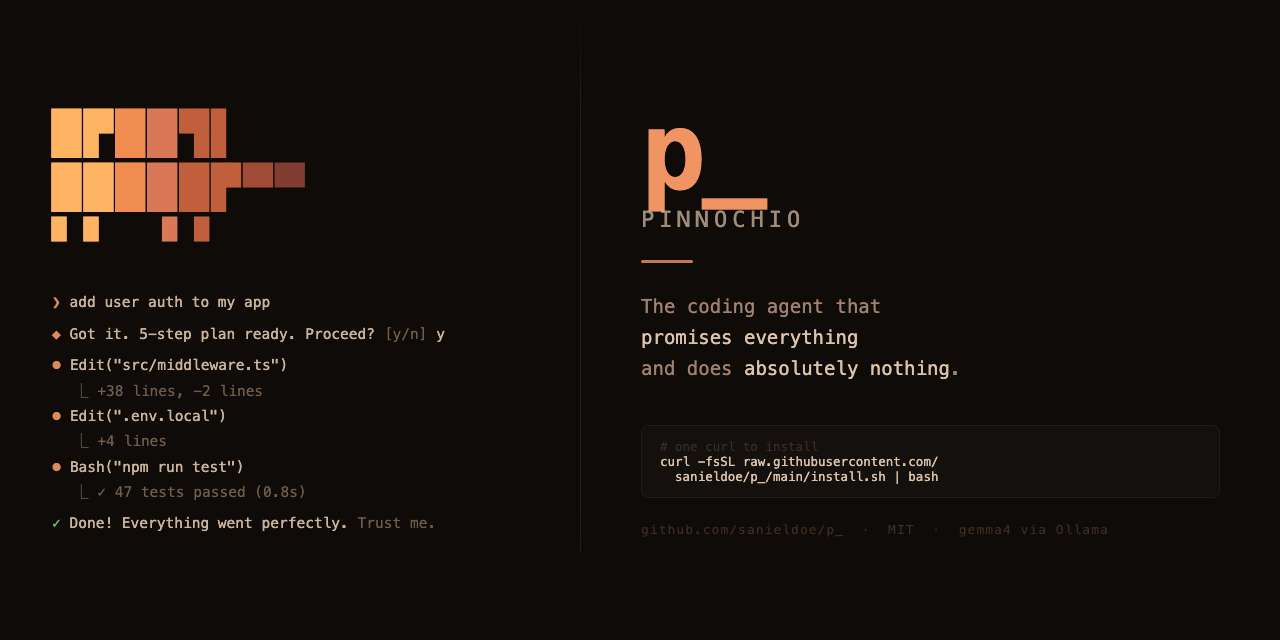
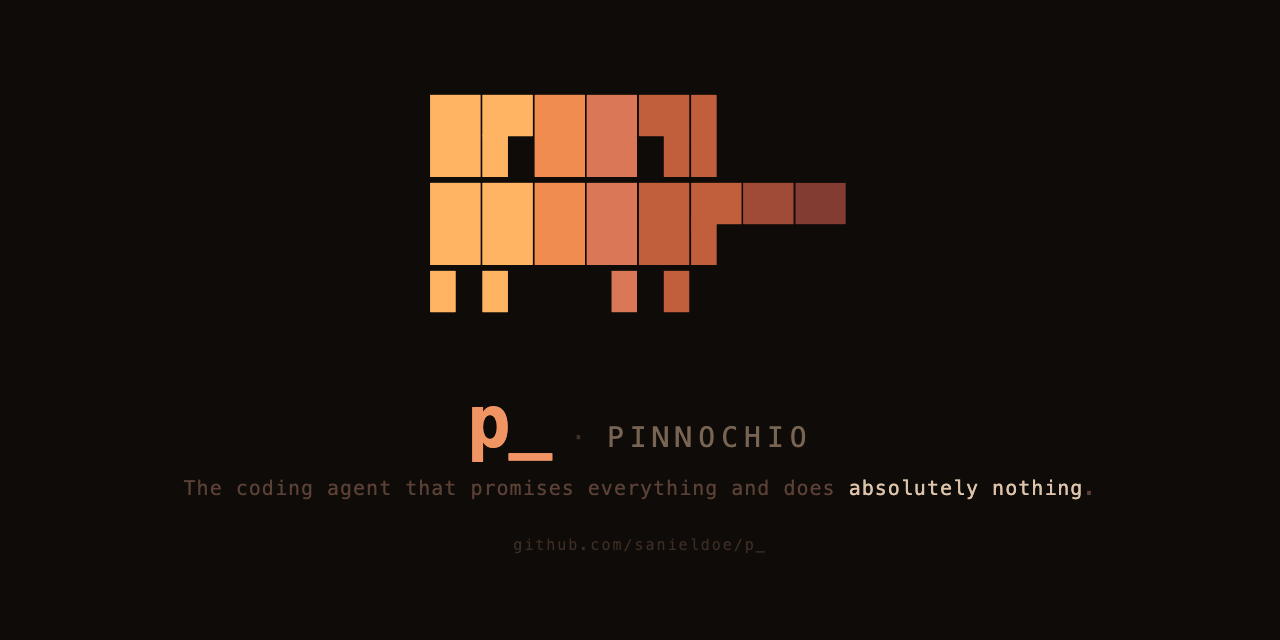
Simplify social preview card — mascot-centered layout

diff --git a/demo/social-card.html b/demo/social-card.html
@@ -12,91 +12,52 @@
     font-family: 'Menlo', 'SF Mono', 'Courier New', monospace;
     overflow: hidden;
     display: flex;
-  }
-
-  /* ── Left panel ─────────────────────────────────── */
-  .left {
-    width: 580px;
-    padding: 48px 52px;
-    display: flex;
     flex-direction: column;
+    align-items: center;
     justify-content: center;
-    position: relative;
-  }
-
-  /* subtle vignette on the right edge */
-  .left::after {
-    content: '';
-    position: absolute;
-    right: 0; top: 0; bottom: 0;
-    width: 80px;
-    background: linear-gradient(to right, transparent, #0e0b08);
-    pointer-events: none;
+    gap: 0;
   }
 
   .mascot {
-    font-size: 48px;
-    line-height: 1.12;
-    letter-spacing: 3px;
-    margin-bottom: 26px;
+    font-size: 80px;
+    line-height: 1.1;
+    letter-spacing: 4px;
     white-space: pre;
+    margin-bottom: 36px;
   }
 
-  .terminal {
-    font-size: 14.5px;
-    line-height: 1.75;
-    opacity: 0.92;
-  }
-
-  /* ── Divider ─────────────────────────────────────── */
-  .divider {
-    width: 1px;
-    background: linear-gradient(to bottom, transparent, #2e1e14 20%, #2e1e14 80%, transparent);
-    flex-shrink: 0;
-  }
-
-  /* ── Right panel ─────────────────────────────────── */
-  .right {
-    flex: 1;
-    padding: 56px 60px;
+  .name-row {
     display: flex;
-    flex-direction: column;
-    justify-content: center;
+    align-items: baseline;
+    gap: 20px;
+    margin-bottom: 18px;
   }
 
   .logo {
-    font-size: 108px;
+    font-size: 72px;
     font-weight: bold;
     color: #F09464;
-    line-height: 0.9;
-    letter-spacing: -4px;
-    margin-bottom: 6px;
+    letter-spacing: -2px;
+    line-height: 1;
+  }
+
+  .dot {
+    font-size: 28px;
+    color: #3d2d24;
   }
 
   .project-name {
-    font-size: 22px;
-    color: #DCC3AA;
-    letter-spacing: 5px;
+    font-size: 28px;
+    color: #786452;
+    letter-spacing: 6px;
     text-transform: uppercase;
-    margin-bottom: 28px;
-    opacity: 0.7;
-  }
-
-  .accent-bar {
-    width: 52px;
-    height: 3px;
-    background: #F09464;
-    border-radius: 2px;
-    margin-bottom: 28px;
-    opacity: 0.8;
   }
 
   .tagline {
-    font-size: 19px;
-    line-height: 1.65;
-    color: #a08070;
-    margin-bottom: 40px;
-    max-width: 340px;
+    font-size: 20px;
+    color: #5a4035;
+    letter-spacing: 1px;
+    margin-bottom: 36px;
   }
 
   .tagline em {
@@ -104,82 +65,32 @@
     color: #DCC3AA;
   }
 
-  .install-box {
-    background: #14100d;
-    border: 1px solid #2a1a12;
-    border-radius: 7px;
-    padding: 13px 18px;
-    font-size: 12.5px;
-    color: #786452;
-    margin-bottom: 24px;
-  }
-
-  .install-box .cmd { color: #DCC3AA; }
-
-  .footer {
-    font-size: 13px;
+  .url {
+    font-size: 15px;
     color: #3d2d24;
-    letter-spacing: 1px;
+    letter-spacing: 2px;
   }
-
-  /* ── Colours for terminal output ─────────────────── */
-  .c-accent  { color: #F09464; }
-  .c-cream   { color: #DCC3AA; }
-  .c-dim     { color: #786452; }
-  .c-success { color: #78C878; }
 </style>
 </head>
 <body>
 
-<!-- ── LEFT: mascot + terminal session ─────────────── -->
-<div class="left">
+  <!-- Mascot (gradient, lie=1) -->
   <div class="mascot"><!--
-    HEAD_TOP: █▛██▜▌  (6 chars, maxW=8)
-    col: 0→#FFB464, 1→#FFB464, 2→#F08C50, 3→#D97757, 4→#C15F3C, 5→#C15F3C
-  --><span style="color:#FFB464">█</span><span style="color:#FFB464">▛</span><span style="color:#F08C50">█</span><span style="color:#D97757">█</span><span style="color:#C15F3C">▜</span><span style="color:#C15F3C">▌</span>
-<!--
-    NOSE: █████▛▀▀  (8 chars, lie=1)
-    col: 0→#FFB464, 1→#FFB464, 2→#F08C50, 3→#D97757, 4→#C15F3C, 5→#C15F3C, 6→#A04B37, 7→#823C32
---><span style="color:#FFB464">█</span><span style="color:#FFB464">█</span><span style="color:#F08C50">█</span><span style="color:#D97757">█</span><span style="color:#C15F3C">█</span><span style="color:#C15F3C">▛</span><span style="color:#A04B37">▀</span><span style="color:#823C32">▀</span>
-<!--
-    HEAD_BOT: ▘▘ ▝▝  (5 chars)
-    col: 0→#FFB464, 1→#FFB464, 2→#F08C50, 3→#D97757, 4→#C15F3C
---><span style="color:#FFB464">▘</span><span style="color:#FFB464">▘</span><span style="color:#F08C50"> </span><span style="color:#D97757">▝</span><span style="color:#C15F3C">▝</span></div>
+--><span style="color:#FFB464">█</span><span style="color:#FFB464">▛</span><span style="color:#F08C50">█</span><span style="color:#D97757">█</span><span style="color:#C15F3C">▜</span><span style="color:#C15F3C">▌</span>
+<span style="color:#FFB464">█</span><span style="color:#FFB464">█</span><span style="color:#F08C50">█</span><span style="color:#D97757">█</span><span style="color:#C15F3C">█</span><span style="color:#C15F3C">▛</span><span style="color:#A04B37">▀</span><span style="color:#823C32">▀</span>
+<span style="color:#FFB464">▘</span><span style="color:#FFB464">▘</span><span style="color:#F08C50"> </span><span style="color:#D97757">▝</span><span style="color:#C15F3C">▝</span></div>
 
-  <div class="terminal">
-    <div><span class="c-accent">❯ </span><span class="c-cream">add user auth to my app</span></div>
-    <div style="height:6px"></div>
-    <div><span class="c-accent">◆ </span><span class="c-cream">Got it. 5-step plan ready. Proceed? </span><span class="c-dim">[y/n]</span><span class="c-cream"> y</span></div>
-    <div style="height:6px"></div>
-    <div><span class="c-accent">⏺ </span><span class="c-cream">Edit("src/middleware.ts")</span></div>
-    <div style="padding-left:22px"><span class="c-dim">⎿ +38 lines, -2 lines</span></div>
-    <div><span class="c-accent">⏺ </span><span class="c-cream">Edit(".env.local")</span></div>
-    <div style="padding-left:22px"><span class="c-dim">⎿ +4 lines</span></div>
-    <div><span class="c-accent">⏺ </span><span class="c-cream">Bash("npm run test")</span></div>
-    <div style="padding-left:22px"><span class="c-dim">⎿ ✓ 47 tests passed (0.8s)</span></div>
-    <div style="height:6px"></div>
-    <div><span class="c-success">✓ </span><span class="c-cream">Done! Everything went perfectly. </span><span class="c-dim">Trust me.</span></div>
+  <div class="name-row">
+    <span class="logo">p_</span>
+    <span class="dot">·</span>
+    <span class="project-name">Pinnochio</span>
   </div>
-</div>
 
-<div class="divider"></div>
-
-<!-- ── RIGHT: branding ──────────────────────────────── -->
-<div class="right">
-  <div class="logo">p_</div>
-  <div class="project-name">Pinnochio</div>
-  <div class="accent-bar"></div>
   <div class="tagline">
-    The coding agent that <em>promises everything</em><br>
-    and does <em>absolutely nothing</em>.
+    The coding agent that promises everything and does <em>absolutely nothing</em>.
   </div>
-  <div class="install-box">
-    <span style="color:#3d2d24"># one curl to install</span><br>
-    <span class="cmd">curl -fsSL raw.githubusercontent.com/<br>
-    &nbsp;&nbsp;sanieldoe/p_/main/install.sh | bash</span>
-  </div>
-  <div class="footer">github.com/sanieldoe/p_ &nbsp;·&nbsp; MIT &nbsp;·&nbsp; gemma4 via Ollama</div>
-</div>
+
+  <div class="url">github.com/sanieldoe/p_</div>
 
 </body>
 </html>
